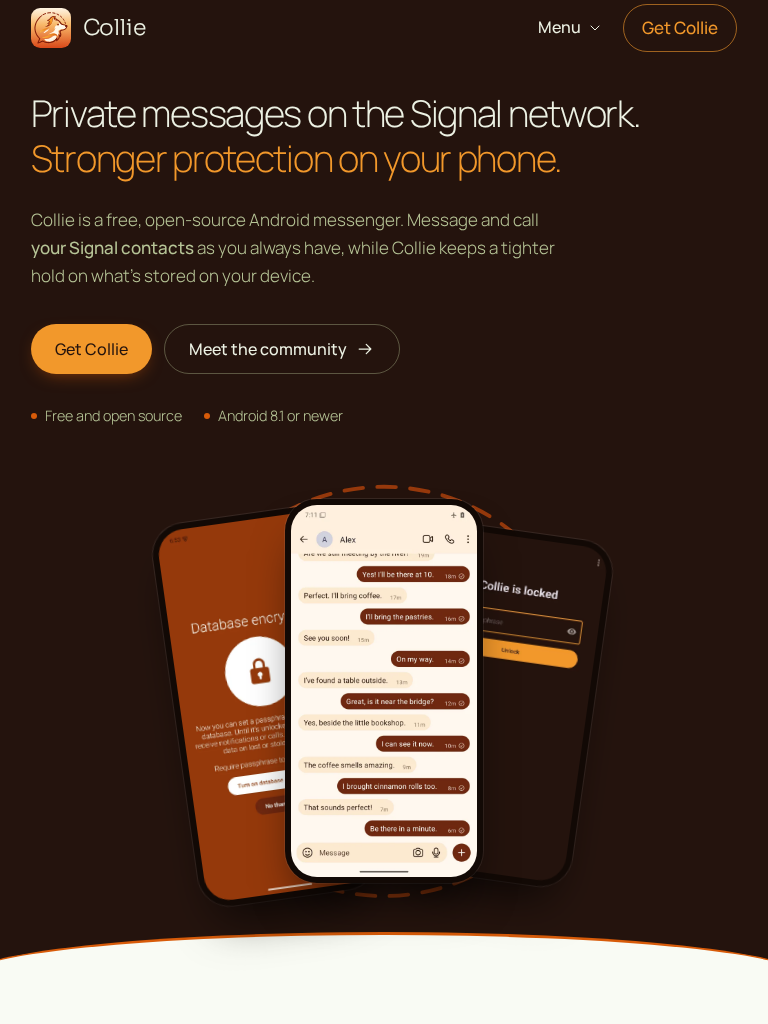
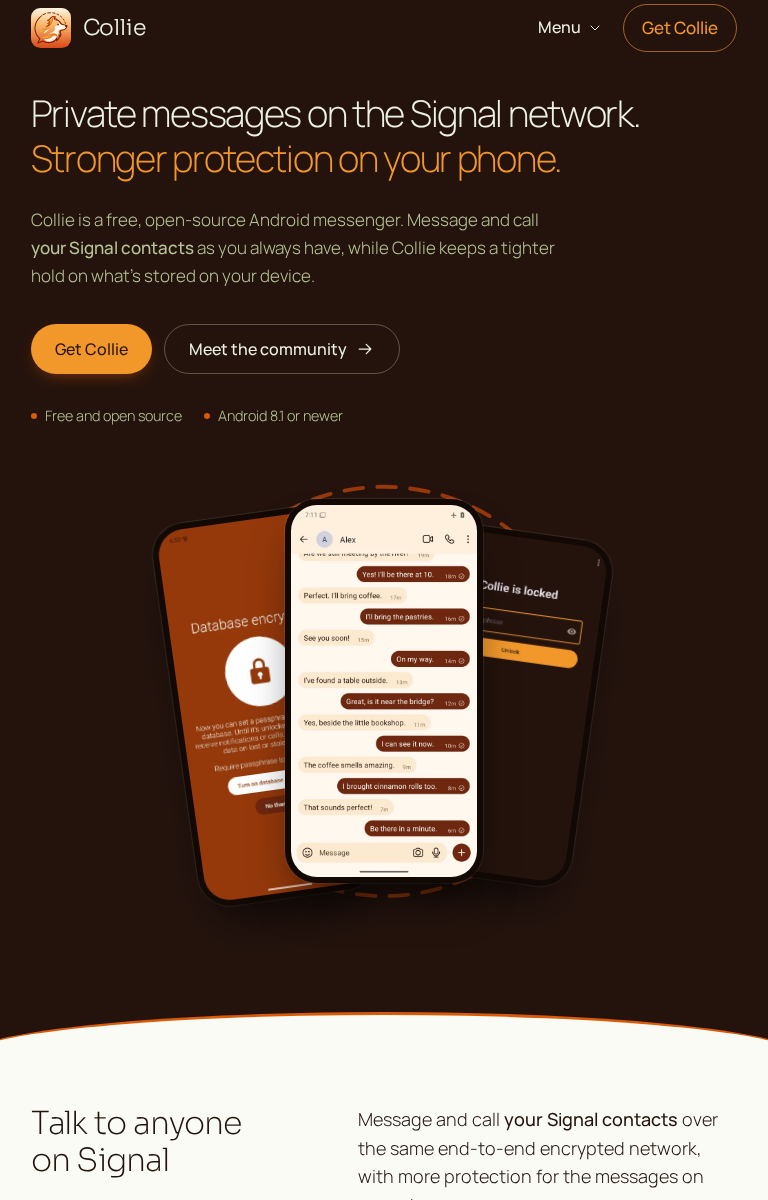
Record lowered symmetric divider browser proof
Capture the full original arc with extra clearance and document unchanged hero geometry, clear section anchors and clean cream bands.

Layer: website

diff --git a/docs/screenshots/pr-95/divider-clearance.md b/docs/screenshots/pr-95/divider-clearance.md
@@ -1,0 +1,64 @@
+# Symmetric hero divider clearance
+
+Implementation source:531cc156584569c8b40cdec2bbadbfbcf71dae9b. Only hero bottom padding changes. The pseudo-element arc rule, all HTML/copy/native assets and all other CSS are unchanged.
+
+Measurements compare the same1100px-high source-render viewport at each width, with the montage scrolled to the same80px stage position. Clearance is maximum transformed .phone bottom to the conservative highest point of the arc (its center apex). Rotated rear bounds in separate page-top captures can differ by about1px from scroll rounding; the matched before/after comparison below uses the same viewport/scroll setup.
+
+|Width|Old clearance|New clearance|Arc/intro shift|New intro heading documentY|
+|---|---:|---:|---:|---:|
+|320|21.48|85.48|64|1044.39|
+|390|21.07|85.07|64|1066.50|
+|768|22.55|102.55|80|1104.80|
+|1280|44.31|124.31|80|928.73|
+
+Arc computed width/height/radii/stroke/left/right/bottom match exactly at each width. Headline/lede/actions/stage/front-image rectangles match exactly in the matched comparisons. First fully readable chat-text pageY remains649.92/615.70/569.19/277.32 at320/390/768/1280.
+
+Fourteen website tests and git diff --check pass. No asset/native/main changes or metadata subsystem change. Current light full-width40px bands after the arc are uniformly RGB249/251/244 at320/390/768/1280 (ffmpeg crop→rgb24 channel min=max), with no shadow spill. Browser anchor probes put every narrow heading below the56px header; minimum observed87.77px. These are DOM anchor/readiness probes, not a new successful trusted keyboard-input run.
+
+## desktop-light.png (1280×960,light)
+
+```text
+ready {"width":1280,"height":960,"usable":1280,"fonts":"loaded","images":[true,true,true,true],"overflow":false,"dark":false}
+dividerGeometry {"heroBottom":851.9375,"arcApex":776.1406,"phoneBottom":652.8336791992188,"clearance":123.3069208007812,"introTop":851.9375,"introHeading":928.734375,"headerBottom":89.71875,"arc":{"width":"1408px","height":"76.7969px","left":"-64px","right":"-64px","bottom":"-1px","radius":"50% 50% 0px 0px / 100% 100% 0px 0px","borderWidth":"3px"},"creamStripViewportY":854}
+sectionClearance [{"id":"about","headingTop":100.734375,"headerBottom":-738.28125},{"id":"features","headingTop":87.875,"headerBottom":-1159.28125},{"id":"upcoming","headingTop":71.71875,"headerBottom":-2117.28125},{"id":"community","headingTop":71.796875,"headerBottom":-2827.28125},{"id":"get","headingTop":136.328125,"headerBottom":-3525.28125}]
+```
+
+## desktop-dark.png (1280×960,dark)
+
+```text
+ready {"width":1280,"height":960,"usable":1280,"fonts":"loaded","images":[true,true,true,true],"overflow":false,"dark":true}
+dividerGeometry {"heroBottom":851.9375,"arcApex":776.1406,"phoneBottom":652.8336791992188,"clearance":123.3069208007812,"introTop":851.9375,"introHeading":928.734375,"headerBottom":89.71875,"arc":{"width":"1408px","height":"76.7969px","left":"-64px","right":"-64px","bottom":"-1px","radius":"50% 50% 0px 0px / 100% 100% 0px 0px","borderWidth":"3px"},"creamStripViewportY":854}
+sectionClearance [{"id":"about","headingTop":100.734375,"headerBottom":-738.28125},{"id":"features","headingTop":87.875,"headerBottom":-1159.28125},{"id":"upcoming","headingTop":71.71875,"headerBottom":-2117.28125},{"id":"community","headingTop":71.796875,"headerBottom":-2827.28125},{"id":"get","headingTop":136.328125,"headerBottom":-3525.28125}]
+```
+
+## mobile-light.png (390×844,light)
+
+```text
+ready {"width":390,"height":844,"usable":390,"fonts":"loaded","images":[true,true,true,true],"overflow":false,"dark":false}
+dividerGeometry {"heroBottom":1018.5,"arcApex":979.5,"phoneBottom":894.4294357299805,"clearance":85.07056427001953,"introTop":1018.5,"introHeading":1066.5,"headerBottom":56,"arc":{"width":"429px","height":"40px","left":"-19.5px","right":"-19.5px","bottom":"-1px","radius":"50% 50% 0px 0px / 100% 100% 0px 0px","borderWidth":"3px"},"creamStripViewportY":569}
+sectionClearance [{"id":"about","headingTop":103.5,"headerBottom":56},{"id":"features","headingTop":88.46875,"headerBottom":56},{"id":"upcoming","headingTop":111.625,"headerBottom":56},{"id":"community","headingTop":87.765625,"headerBottom":56},{"id":"get","headingTop":124.078125,"headerBottom":56}]
+```
+
+## mobile-dark.png (390×844,dark)
+
+```text
+ready {"width":390,"height":844,"usable":390,"fonts":"loaded","images":[true,true,true,true],"overflow":false,"dark":true}
+dividerGeometry {"heroBottom":1018.5,"arcApex":979.5,"phoneBottom":894.4294357299805,"clearance":85.07056427001953,"introTop":1018.5,"introHeading":1066.5,"headerBottom":56,"arc":{"width":"429px","height":"40px","left":"-19.5px","right":"-19.5px","bottom":"-1px","radius":"50% 50% 0px 0px / 100% 100% 0px 0px","borderWidth":"3px"},"creamStripViewportY":569}
+sectionClearance [{"id":"about","headingTop":103.5,"headerBottom":56},{"id":"features","headingTop":88.46875,"headerBottom":56},{"id":"upcoming","headingTop":111.625,"headerBottom":56},{"id":"community","headingTop":87.765625,"headerBottom":56},{"id":"get","headingTop":124.078125,"headerBottom":56}]
+```
+
+## hero-narrow-light.png (320×844,light)
+
+```text
+ready {"width":320,"height":844,"usable":320,"fonts":"loaded","images":[true,true,true,true],"overflow":false,"dark":false}
+dividerGeometry {"heroBottom":996.390625,"arcApex":957.390625,"phoneBottom":871.9121398925781,"clearance":85.47848510742188,"introTop":996.390625,"introHeading":1044.390625,"headerBottom":56,"arc":{"width":"352px","height":"40px","left":"-16px","right":"-16px","bottom":"-1px","radius":"50% 50% 0px 0px / 100% 100% 0px 0px","borderWidth":"3px"},"creamStripViewportY":497}
+sectionClearance [{"id":"about","headingTop":104.390625,"headerBottom":56},{"id":"features","headingTop":88.15625,"headerBottom":56},{"id":"upcoming","headingTop":111.828125,"headerBottom":56},{"id":"community","headingTop":87.765625,"headerBottom":56},{"id":"get","headingTop":123.671875,"headerBottom":56}]
+```
+
+## page-top-tablet-light.png (768×1200,light)
+
+```text
+ready {"width":768,"height":1200,"usable":768,"fonts":"loaded","images":[true,true,true,true],"overflow":false,"dark":false}
+dividerGeometry {"heroBottom":1056.796875,"arcApex":1011.718775,"phoneBottom":910.16796875,"clearance":101.55080625000005,"introTop":1056.796875,"introHeading":1104.796875,"headerBottom":56,"arc":{"width":"844.781px","height":"46.0781px","left":"-38.3906px","right":"-38.3906px","bottom":"-1px","radius":"50% 50% 0px 0px / 100% 100% 0px 0px","borderWidth":"3px"},"creamStripViewportY":1059}
+sectionClearance [{"id":"about","headingTop":103.796875,"headerBottom":56},{"id":"features","headingTop":94.5625,"headerBottom":56},{"id":"upcoming","headingTop":111.984375,"headerBottom":56},{"id":"community","headingTop":88.359375,"headerBottom":56},{"id":"get","headingTop":349.4375,"headerBottom":56}]
+```

diff --git a/docs/screenshots/pr-95/README.md b/docs/screenshots/pr-95/README.md
@@ -1,19 +1,19 @@
 # Current website review evidence
 
-Current chat image/provenance source is signed d754358d1afac77eb84c260a7383cfe0688e38ee; HTML/CSS remains signed eb9e7c2376d78222dc0a86926f33084b26d96879. Original encryption/lock provenance remains b3b4857fe6ebc0338f732cd9129c8b1bc94880f0. Review the containing evidence commit as one stable candidate. No rating is supplied by the implementation owner.
+Current chat image/provenance source is signed d754358d1afac77eb84c260a7383cfe0688e38ee; Current CSS is signed531cc156584569c8b40cdec2bbadbfbcf71dae9b; HTML/copy remains eb9e7c2376d78222dc0a86926f33084b26d96879. The only current CSS change adds bottom space below the phones; the original symmetric arc geometry is unchanged. Original encryption/lock provenance remains b3b4857fe6ebc0338f732cd9129c8b1bc94880f0. Review the containing evidence commit as one stable candidate. No rating is supplied by the implementation owner.
 
 ## Current views
 
-All paths below are in this directory. All eight hero/page-top/phone-montage views are freshly rendered with the accepted fuller-thread photo. Community views retain eb9e7c source; features/Upcoming/downloads and phone introductions retain e532bde source appearance, which this image-only selection does not change. Current helper/readiness/geometry logs are in render-checks.md. Historical menu/Obtainium source-render support and separate actual native Obtainium installation proof retain their explicit provenance below.
+All paths below are in this directory. Desktop hero light/dark,390 transition light/dark,320 transition and768 page top are freshly rendered after the divider clearance fix. Initial320/390 page-top appearance is unchanged because the boundary remains below those844px crops. Community views retain eb9e7c source; features/Upcoming/downloads/introductions retain unchanged e532bde component appearance. Their document positions shift with the extra64px(phone)/80px(wider) hero space. No decoration is implemented. Exact matched before/after measurements and current strip/anchor checks are in divider-clearance.md.
 
 | View | File | Actual iframe CSS viewport / PNG dimensions |
 | --- | --- | --- |
-| Desktop hero | [light](desktop-light.png) · [dark](desktop-dark.png) |1280×800|
+| Desktop hero | [light](desktop-light.png) · [dark](desktop-dark.png) |1280×960|
 | Phone hero, scrolled to phones | [light](mobile-light.png) · [dark](mobile-dark.png) |390×844|
 | Narrow hero/curve | [hero-narrow-light.png](hero-narrow-light.png) |320×844|
 | Actual phone page top | [page-top-mobile-light.png](page-top-mobile-light.png) |390×844, scrollY 0|
 | Actual narrow page top | [page-top-narrow-light.png](page-top-narrow-light.png) |320×844, scrollY 0|
-| Actual tablet page top | [page-top-tablet-light.png](page-top-tablet-light.png) |768×1024, scrollY 0|
+| Actual tablet page top | [page-top-tablet-light.png](page-top-tablet-light.png) |768×1200, scrollY 0|
 | Features | [desktop](features-desktop-light.png) · [tablet](features-tablet-light.png) |1280×1000 /768×1300|
 | Phone features | [390](features-mobile-light.png) · [320](features-narrow-light.png) |390×1100 /320×1300|
 | Upcoming plans | [desktop light](upcoming-desktop-light.png) · [phone dark](upcoming-mobile-dark.png) · [narrow light](upcoming-narrow-light.png) |1280×900 /390×1100 /320×1250|
@@ -75,6 +75,10 @@ Headline and lede wording, weight/line-height ratio, orange second sentence, nat
 Y is document CSS pixels at scrollY 0 in the accurate overlay-scrollbar renderer, using actual front-image geometry and matching native UI text bounds. Fixed phone gaps: header→headline 20px, headline→lede 20, lede→buttons 24, button rows 12, buttons→facts 20, facts→stage 16. Lede is 16px/26.4px. Focus-ring CSS is unchanged. At 768 and 1280, measured headline, lede, actions, stage and front-image rectangles/fonts are exactly identical to the prior candidate; only the third fact is deliberately absent.
 
 At 390 the Get panel grows 859.52→881.52px, exactly 22px, from the prerequisite's 20px line plus 2px margin. Existing card copy/Recommended/primary styles/handoff are unchanged; no extra auto-update promise. All six feature descriptions, community, legal line and planned disclaimer/list/URLs are byte-identical. The current pass preserves this phone hero/download behavior and all native assets, metadata, local main and native proof. It changes supporting text weight, roadmap disclosure, desktop lead balance and desktop section spacing only.
+
+## Current symmetric divider fix
+
+The existing symmetric arc width, height, curvature,3px stroke and lateral position are unchanged. Only hero bottom padding adds64px below600px and80px above600px. Matched320/390/768/1280 montage-bottom→center-apex clearances change21.48/21.07/22.55/44.31→85.48/85.07/102.55/124.31px. Hero title/lede/CTA/photo geometry is unchanged; intro moves down by the same64/80px. Every narrow section heading clears the56px header. Full-width40px light strips below the arc remain exactly249/251/244RGB: no shadow spill. [Exact current evidence](divider-clearance.md). No contour or other decoration accompanies this change.
 
 ## Verified focused changes and measurements
 

diff --git a/docs/screenshots/pr-95/completion-audit.md b/docs/screenshots/pr-95/completion-audit.md
@@ -13,6 +13,7 @@ This is a factual requirement audit, not a design rating. Source and current ima
 | Real Obtainium first install | API35/Chrome124.0.6367.219, official Obtainium1.7.4 x86_64. Missing-app handoff/return guidance remained usable; accepting Chrome Continue imported GitHub source/im.collie.app/collie.apk, and public Collie8.35.1-3-rc2 (177705) installed. No Collie launch/account/login/token; installer returned automatically, no Done tap. [Exact selected runtime proof](obtainium-walkthrough/README.md). |
 | Fresh native screenshots | Genuine offline Alex/fourteen-message ongoing chat and corrected encryption captured at native 1080×2160. Seed/centering/durable restore each passed 1 test, no skip; encryption geometry 336/337px with title below bars. Cold production PID 6443/task 18 showed SECURE. Website encryption retains original 1080×2400 source/540×1200 derivative and 450/450px geometry. Distinct hashes/viewports are documented; no fabricated UI. |
 | Actual hero/current pixels | Genuine conversation front, original corrected encryption left, locked screen right. Natural image ratios preserve front header/composer; rear title/controls are partially overlapped, never claimed fully unobscured. Chat PNG c70ebe40…/WebP230620ee…; new Fastlane encryption b85f15db…; original website encryption 6862fbc6…. |
+| Symmetric divider clearance | Only hero bottom padding adds64px phone/80px wider. Original arc geometry/stroke remains identical; title/lede/CTA/photo positions stay fixed. Matched clearances now85.48/85.07/102.55/124.31px at320/390/768/1280. Current full-arc captures, uniform cream strips and clear anchors are recorded in divider-clearance.md. No decoration is implemented. |
 | Brand/live workflow | Solid hero; no CSS radial gradients. Fonts/palette/section order unchanged; selected real hero screens updated. Existing localhost:8879 server retained. Impeccable 4.1.1 was present and used; no install/download. |
 | Narrow navigation | 56px persistent header, native button/ARIA state, existing section links and Escape/outside/link closing. Prior successful keyboard/anchor evidence is distinguished from later degraded input transport in README. |
 | Validation | 14 website tests and Fastlane metadata validator passed; no overflow at actual 320/390/768/1280. Current intro/features, hero, roadmap, community and downloads/footer use exact built-source browser renders with verified fonts/images/media/viewport; latest affected groups/page tops are fresh, unchanged component views retain the explicit provenance recorded in README. Exported button/bark RGB matches source. Supporting older live captures retain original provenance. Selected contrast scope only; no whole-site AA assertion. |
